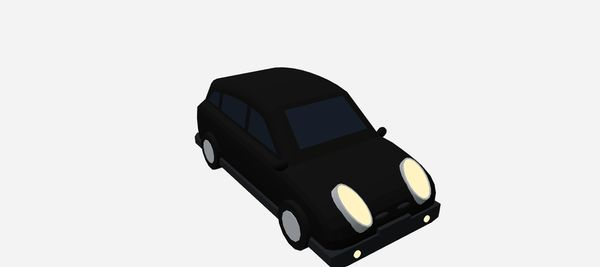
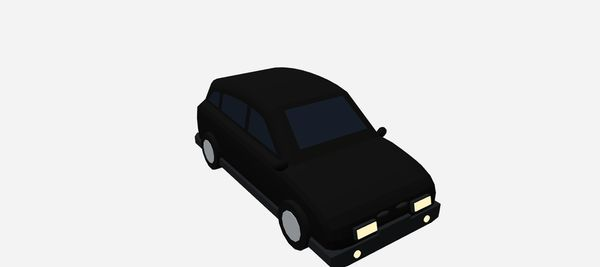
Commuter: flush rectangular headlamps, the owner's pick (CHECKLIST 345)
The bug-eye almond lamps in silver rings were judged hideous from the side: a
flat lens on the nose's bending corner needs 10 cm of ring to clear the body,
and a bulbous bulb either stands out as far or fragments when sunk. Of three
drafts on the nose's near-vertical face (round, rectangular, oval) the owner
picked the rectangles: a flat cream lens a hair proud of a dark bezel block,
either side of the grille; the face is flat under them so nothing cuts through,
and from the side they are a thin edge. The tail lamps move inboard onto the
tail's flat panel and stand 3.5 cm out instead of 9. 15 shapes, 1,772
triangles, 7 draw calls. Re-seated: the lamp table (scripts/lamps.mjs), the
plate anchors (audit clean), the tag baselines, the fallback card pictures.
Checks: cars group, proptag, platetag, propanchors, glass-contour (as main),
eslint. Seen: front, 3/4 front, low 3/4, side, 3/4 rear, rear, Evil, the
Legendary (its bezels gold with the trim).

Claude-Session: https://claude.ai/code/session_01W2PMgY7HZ31yFPHFeqVrMe

Changed region(s): [[0.54, 0.6891, 0.63, 0.8989], [0.66, 0.5693, 0.72, 0.809]]

diff --git a/src/delivery/render/modelsOrig1b.js b/src/delivery/render/modelsOrig1b.js
@@ -173,15 +173,15 @@ export const ORIG1B_MODELS = {};
 // The starter car, redrawn from the owner's photographs of a 2000s Nissan Micra (K12) and the old card picture: a
 // bubble. One round body, tall and short: a steep stubby bonnet dropping to a blunt round nose, a big raked windscreen
 // into a DOMED roof (its crown over the front seats) that falls away to an upright hatch; a low waist that rises toward
-// the back under deep windows; bug-eye headlamps, almond lenses in silver bezel rings standing out of the nose's corners
-// and sweeping back along the wings; a small two-slot grille; body-colour bumpers (as the photographs) over a chunky
+// the back under deep windows; flush rectangular headlamps in dark bezels on the nose's face either side of the grille
+// (the owner's pick of three drafts, 15-Oct); a small two-slot grille; body-colour bumpers (as the photographs) over a chunky
 // black skirt ring that runs right round the car's foot, 3 cm proud, with the mouth and two round fog lamps in its
 // front face; tall oval tail lamps in silver rings up the rear corners, a clear lens low in each; round mirrors in the
 // paint; plain silver hub caps on small fat tyres that overlap the body's lower corners (no wheel arches: the owner,
 // 15-Oct, "the tyres clipping through a rigid body is good enough"). The paint shades a little deeper and redder low
-// down (vertex colours). Every lamp is a silver RING standing out of the body along its surface's normal with a domed
-// lens on top, so its outline is the ring's own smooth rim and never a jagged cut into the body's facets; every pane of
-// glass stands clear of the body's bevels (its own crisp edge).
+// down (vertex colours). Each tail lamp is a silver RING standing out of the body with a domed lens on top, so its
+// outline is the ring's own smooth rim and never a jagged cut into the body's facets; the headlamps sit on the nose's
+// flat face for the same reason; every pane of glass stands clear of the body's bevels (its own crisp edge).
 ORIG1B_MODELS.commuter = (car) => {
   const group = new THREE.Group();
   const W = car.hw, L = car.hl, R = 0.3; // (as before: radius 0.3, the axles at ±0.62 of the half length)
@@ -251,25 +251,28 @@ ORIG1B_MODELS.commuter = (car) => {
     if (yaw) geo.rotateY(yaw);
     return geo.translate(x, y, z);
   };
-  const HL = [0.5, 0.66, NOSE - 0.03], HP = -0.95, HY = 0.22; // (the headlamp's place; its pitch, the ring's axis the nose corner's normal; its splay)
-  const TL = [0.66, 0.66, TAILZ - BEV + 0.03]; // (the tail lamp's place; its ring's axis straight back)
-  parts(group, k + 'bezel', SILVER, () => [
-    ...[-1, 1].map(s => ring(0.15, 0.28, 0.26, 0.1, s * HL[0], HL[1], HL[2], HP, -s * HY)),
-    ...[-1, 1].map(s => ring(0.1, 0.18, 0.22, 0.09, s * TL[0], TL[1], TL[2], Math.PI, 0)),
-  ]);
+  // the headlamps (the owner, 15-Oct, picked from three drafts): flush RECTANGULAR lamps on the nose's near-vertical
+  // face either side of the grille, each a flat cream lens standing a hair proud of a dark bezel block set into the
+  // nose (the face is flat under them, so nothing of the body cuts through, and from the side they are a thin edge).
+  // The tail lamps tall ovals in silver rings up the rear corners, a clear lens low in each
+  const NF = NOSE + 0.18, NP = -0.25; // (the nose face under the lamps, and its lean back)
+  const rbox = (w, h, d, out, x, y, z, pitch) => new THREE.BoxGeometry(w, h, d).translate(0, 0, out - d / 2).rotateX(pitch).translate(x, y, z);
+  const TL = [0.58, 0.66, TAILZ - BEV + 0.03]; // (the tail lamp's place, on the tail's flat panel; its ring's axis straight back)
+  parts(group, k + 'bezel', SILVER, () => [-1, 1].map(s => ring(0.1, 0.18, 0.16, 0.035, s * TL[0], TL[1], TL[2], Math.PI, 0)));
   parts(group, k + 'lamp', LAMP, () => [
-    ...[-1, 1].map(s => dome(0.13, 0.26, 0.05, 0.1, s * HL[0], HL[1], HL[2], HP, -s * HY)),
-    ...[-1, 1].map(s => dsc(0.03, 0.02, s * TL[0], TL[1] - 0.075, TL[2] - 0.118, 12)),   // the clear lenses
+    ...[-1, 1].map(s => rbox(0.27, 0.1, 0.02, 0.03, s * 0.44, 0.49, NF, NP)),                 // the headlamp lenses
+    ...[-1, 1].map(s => dsc(0.03, 0.02, s * TL[0], TL[1] - 0.075, TL[2] - 0.063, 12)),        // the clear lenses
   ]);
-  parts(group, k + 'tail', TAIL, () => [-1, 1].map(s => dome(0.085, 0.16, 0.035, 0.09, s * TL[0], TL[1], TL[2], Math.PI, 0)));
+  parts(group, k + 'tail', TAIL, () => [-1, 1].map(s => dome(0.085, 0.16, 0.035, 0.035, s * TL[0], TL[1], TL[2], Math.PI, 0)));
   // black: the skirt ring round the car's foot (3 cm proud of the flanks and both bumpers), the mouth and the two
   // grille slots on the nose, the hatch's handle strip
   const FZ = NOSE + 0.19, RZ = TAILZ - 0.19; // (the skirt's front and rear faces)
   parts(group, k + 'black', TRIM, () => [
     // (the skirt band: its corners rounded in plan as the body's are, its top and bottom edges rounded over)
     extrudeSide([[FZ - 0.05, 0.17], [FZ - 0.05, 0.29], [RZ + 0.05, 0.29], [RZ + 0.05, 0.17]], BW + 0.06, 0.05, null, 2, 0.2),
+    ...[-1, 1].map(s => rbox(0.3, 0.13, 0.14, 0.015, s * 0.44, 0.49, NF, NP)),                  // the headlamp bezels
     bx(0.5, 0.07, 0.06, 0, 0.38, FZ - 0.01),                                                   // the mouth
-    ...[-1, 1].map(s => blob(0.11, 0.03, 0.03, s * 0.17, 0.54, NOSE + 0.145, 0.45, 0, [8, 4])),     // the grille slots
+    ...[-1, 1].map(s => blob(0.1, 0.03, 0.03, s * 0.15, 0.55, NOSE + 0.14, 0.45, 0, [8, 4])),     // the grille slots
     bx(0.4, 0.03, 0.03, 0, 0.9, TAILZ - BEV + 0.01),                                           // the hatch's handle strip
   ]);
   parts(group, k + 'fog', LAMP, () => [-1, 1].map(s => dsc(0.045, 0.03, s * 0.56, 0.23, FZ + 0.005, 10)));

diff --git a/src/delivery/render/carlights.js b/src/delivery/render/carlights.js
@@ -45,19 +45,19 @@ import { BATCH_D3_LAMPS } from './carlights-batchD3.js'; // (batch D3's idea car
 
 // (the hand-written entries; the generated batches are merged in under them: TABLE)
 export const CAR_LAMPS = {
-  // The Commuter (render/modelsOrig1b.js, redrawn 15-Oct from the owner's Micra photographs): bug-eye almond
-  // headlamps in silver rings on the nose's corners, leaning back up the wings; tall oval tail lamps in silver rings up
-  // the rear corners, a clear reversing lens low in each; two small round fog lamps in the skirt's front face (not
-  // lamps the table drives). No indicator lenses: the front ones flash on the outer edge of the headlamp's almond, the
+  // The Commuter (render/modelsOrig1b.js, redrawn 15-Oct from the owner's Micra photographs): flush rectangular
+  // headlamps in dark bezels on the nose's face either side of the grille; tall oval tail lamps in silver rings up the
+  // rear corners, a clear reversing lens low in each; two small round fog lamps in the skirt's front face (not lamps
+  // the table drives). No indicator lenses: the front ones flash on the outer end of the headlamp's rectangle, the
   // rear ones on the outer edge of the tail lamp. (Placed from scripts/lamps.mjs's draft of the new body.)
   commuter: {
-    head: [{ at: [0.487, 0.741, 1.923], size: [0.27, 0.303], round: true, mirror: true }],
-    tail: [{ at: [0.66, 0.66, -1.905], size: [0.17, 0.32], round: true, mirror: true }],
+    head: [{ at: [0.44, 0.495, 1.911], size: [0.27, 0.102], mirror: true }],
+    tail: [{ at: [0.58, 0.66, -1.85], size: [0.17, 0.32], round: true, mirror: true }],
     blink: [
-      { at: [0.572, 0.741, 1.923], size: [0.1, 0.1], round: true, mirror: true, shared: 'headlamp' },
-      { at: [0.711, 0.66, -1.905], size: [0.068, 0.1], round: true, mirror: true, shared: 'tail lamp' },
+      { at: [0.545, 0.495, 1.911], size: [0.06, 0.1], mirror: true, shared: 'headlamp' },
+      { at: [0.631, 0.66, -1.85], size: [0.068, 0.1], round: true, mirror: true, shared: 'tail lamp' },
     ],
-    reverse: [{ at: [0.66, 0.585, -1.908], size: [0.06, 0.06], round: true, mirror: true }],
+    reverse: [{ at: [0.58, 0.585, -1.853], size: [0.06, 0.06], round: true, mirror: true }],
   },
   // The Lowrider (render/modelsOrig2.js, a '60s Impala): two round headlamps a side; three round tail lamps a side,
   // the inner one the brake lamp. No amber anywhere: the rear indicators are the outer tail lamps flashing red (as the

diff --git a/CHECKLIST.md b/CHECKLIST.md
@@ -754,4 +754,4 @@ Working list, from the owner's ideas of 2026-10-09. `[x]` done, `[~]` partly don
 - [ ] 342. NO-BIKE / NO-FLYING RULE (15-Oct) applied to existing cars: Scooter and Sidecar, Gyro Car, Flying Car, UFO, Saucer, Hovercraft break it; the owner has not said what to do (nothing was changed).
 - [ ] 343. MORE THEMES offered, not built: Nordic fjord (long rock tunnels, a ferry, an underground roundabout), neon future city, medieval castle town, oil field, airport apron.
 - [ ] 344. TIDY: `.platecosmetic-check` and `.cosmetics-own-check` snapshot `main`'s vite.config.js and fail now (a check fix); the Stelvio `?level=30` "No car for this level" `flow` console error with the tier rule on (on main); stale comments in ecu.js / carsources.js (replay-hashed: edit only with a version bump); stray items 440 and 450; the Courier Special is unavailable but not flagged hidden; about 70 merged or dead remote branches to delete (the owner must: remote deletion gives 403 here).
-- [ ] 345. COMMUTER REDRAWN (the owner, 15-Oct: "make the Commuter look less ugly ... everyone's first impression", with photographs of an orange Nissan Micra K12 and the old card picture; "do a draft where you try to get it as close as possible", "don't model a wheel well, the tyres clipping through a rigid body is good enough", "make sure the glass edges are crisp", "the bottom black trim is not sticking out enough", "the wheels stick out too much", "the rear lights are too inset"). Branch `claude/commuter-fix-a`, one draft (the b/c drafts of the brief were dropped at the owner's word). `render/modelsOrig1b.js commuter`: the same two-extrusion construction, redrawn: a steep short bonnet into a domed roof crowned over the front seats, an upright hatch, a low waist rising to the back under deep windows, body-colour bumpers over a black skirt band 3 cm proud all round (its corners rounded in plan), a two-slot grille, bug-eye almond headlamps and tall oval tail lamps each a silver ring standing out of the body with a domed lens on top (so the outline is the ring's rim, never a jagged cut), a clear reversing lens in each tail lamp, the tyres pulled in (W - 0.06); the headlamp rings stand 10 cm out with the splay halved (the owner, 15-Oct: one body vertex overlapped a lens's lower inboard edge; the lamp sits on the nose's flat part, so less splay, not more height, clears it: checked in 3x crops from four angles). FOUND AND FIXED on the way: the side-window polygon listed its roof samples front-to-back after the back-top corner, so the fan overlapped itself and gave the ragged window tops the old Commuter had too; the panes now also stand 1.6 cm proud and 6 cm under the roof line, so the roof's shoulder never overlaps them from above. 15 shapes, 2,084 triangles (was 764 / later 1,764 dressed), 7 draw calls; footprint the same hitbox (hw 0.85, hl 1.85, h 1.45; lamps and skirt stand 3 to 6 cm beyond the ends, under 5 %). Stats untouched. RE-SEATED: the lamp table (`carlights.js commuter`, from `scripts/lamps.mjs`'s draft, plus a reverse lens), plates (`scripts/plate-anchors.mjs commuter --write`: rear [0.553, -1.838], front [0.263, 1.88], both 0.52 wide; `plate-placement-audit.mjs commuter`: no flags), props (`scripts/prop-anchors.mjs commuter l-commuter --write`: roof s1.15, wing s0.78, no cargo), the proptag/platetag baselines re-recorded (`--record`; only the commuter rows and their super/legendary/traffic variants changed), the fallback card pictures `carshots/commuter-good|evil.jpg` re-shot. CHECKED: node --check, eslint, the cars group (6 ok), `.glass-contour-check` (the same five failures as main, the Commuter not among them), `.proptag-check`, `.platetag-check`, `.propanchors-check`, `.suspension-check`, `.modelviews-check` all ok. SEEN in stills (software GL, 2x): front, 3/4 front, side, 3/4 rear, rear, top, Evil, the garage card, close crops of the lamps and the window edges from three angles. SEEN since, in the model editor (`modeleditor.html?car=l-commuter`, 3/4 front, 3/4 rear, side, front): the Legendary Commuter's black paint, gold skirt band, lamp rings, grille slots, hubs and hatch strip, the laurel arched over each rear wheel (17 parts, 2,446 triangles, 8 draw calls). NOT SEEN: the car in traffic from the driving camera (the frame caught no traffic), the lamps lit (`?lamps=night`), the plate and props worn, motion, a real device. Not merged, no version bump.
+- [ ] 345. COMMUTER REDRAWN (the owner, 15-Oct: "make the Commuter look less ugly ... everyone's first impression", with photographs of an orange Nissan Micra K12 and the old card picture; "do a draft where you try to get it as close as possible", "don't model a wheel well, the tyres clipping through a rigid body is good enough", "make sure the glass edges are crisp", "the bottom black trim is not sticking out enough", "the wheels stick out too much", "the rear lights are too inset"). Branch `claude/commuter-fix-a`, one draft (the b/c drafts of the brief were dropped at the owner's word). `render/modelsOrig1b.js commuter`: the same two-extrusion construction, redrawn: a steep short bonnet into a domed roof crowned over the front seats, an upright hatch, a low waist rising to the back under deep windows, body-colour bumpers over a black skirt band 3 cm proud all round (its corners rounded in plan), a two-slot grille, flush RECTANGULAR headlamps in dark bezels on the nose's face either side of the grille (the owner's pick, 15-Oct, of three drafts after the bug-eye almond lamps in silver rings were judged hideous from the side: a flat lens on the bending nose corner needed 10 cm of ring to clear the body, and a bulbous bulb either stood out as far or fragmented when sunk; the nose face is flat under the rectangles, so a 1.5 cm bezel suffices and they are a thin edge from the side), tall oval tail lamps on the tail's flat panel each a silver ring standing 3.5 cm out with a domed lens on top (so the outline is the ring's rim, never a jagged cut), a clear reversing lens in each, the tyres pulled in (W - 0.06). FOUND AND FIXED on the way: the side-window polygon listed its roof samples front-to-back after the back-top corner, so the fan overlapped itself and gave the ragged window tops the old Commuter had too; the panes now also stand 1.6 cm proud and 6 cm under the roof line, so the roof's shoulder never overlaps them from above. 15 shapes, 1,772 triangles (was 764 / later 1,764 dressed), 7 draw calls; footprint the same hitbox (hw 0.85, hl 1.85, h 1.45; lamps and skirt stand 3 to 6 cm beyond the ends, under 5 %). Stats untouched. RE-SEATED: the lamp table (`carlights.js commuter`, from `scripts/lamps.mjs`'s draft, plus a reverse lens), plates (`scripts/plate-anchors.mjs commuter --write`: rear [0.553, -1.838], front [0.263, 1.88], both 0.52 wide; `plate-placement-audit.mjs commuter`: no flags), props (`scripts/prop-anchors.mjs commuter l-commuter --write`: roof s1.15, wing s0.78, no cargo), the proptag/platetag baselines re-recorded (`--record`; only the commuter rows and their super/legendary/traffic variants changed), the fallback card pictures `carshots/commuter-good|evil.jpg` re-shot. CHECKED: node --check, eslint, the cars group (6 ok), `.glass-contour-check` (the same five failures as main, the Commuter not among them), `.proptag-check`, `.platetag-check`, `.propanchors-check`, `.suspension-check`, `.modelviews-check` all ok. SEEN in stills (software GL, 2x): front, 3/4 front, side, 3/4 rear, rear, top, Evil, the garage card, close crops of the lamps and the window edges from three angles. SEEN since, in the model editor (`modeleditor.html?car=l-commuter`, 3/4 front, 3/4 rear, side, front): the Legendary Commuter's black paint, gold skirt band, lamp rings, grille slots, hubs and hatch strip, the laurel arched over each rear wheel (17 parts, 2,134 triangles, 8 draw calls; the headlamp bezels go gold with the trim). NOT SEEN: the car in traffic from the driving camera (the frame caught no traffic), the lamps lit (`?lamps=night`), the plate and props worn, motion, a real device. Not merged, no version bump.
